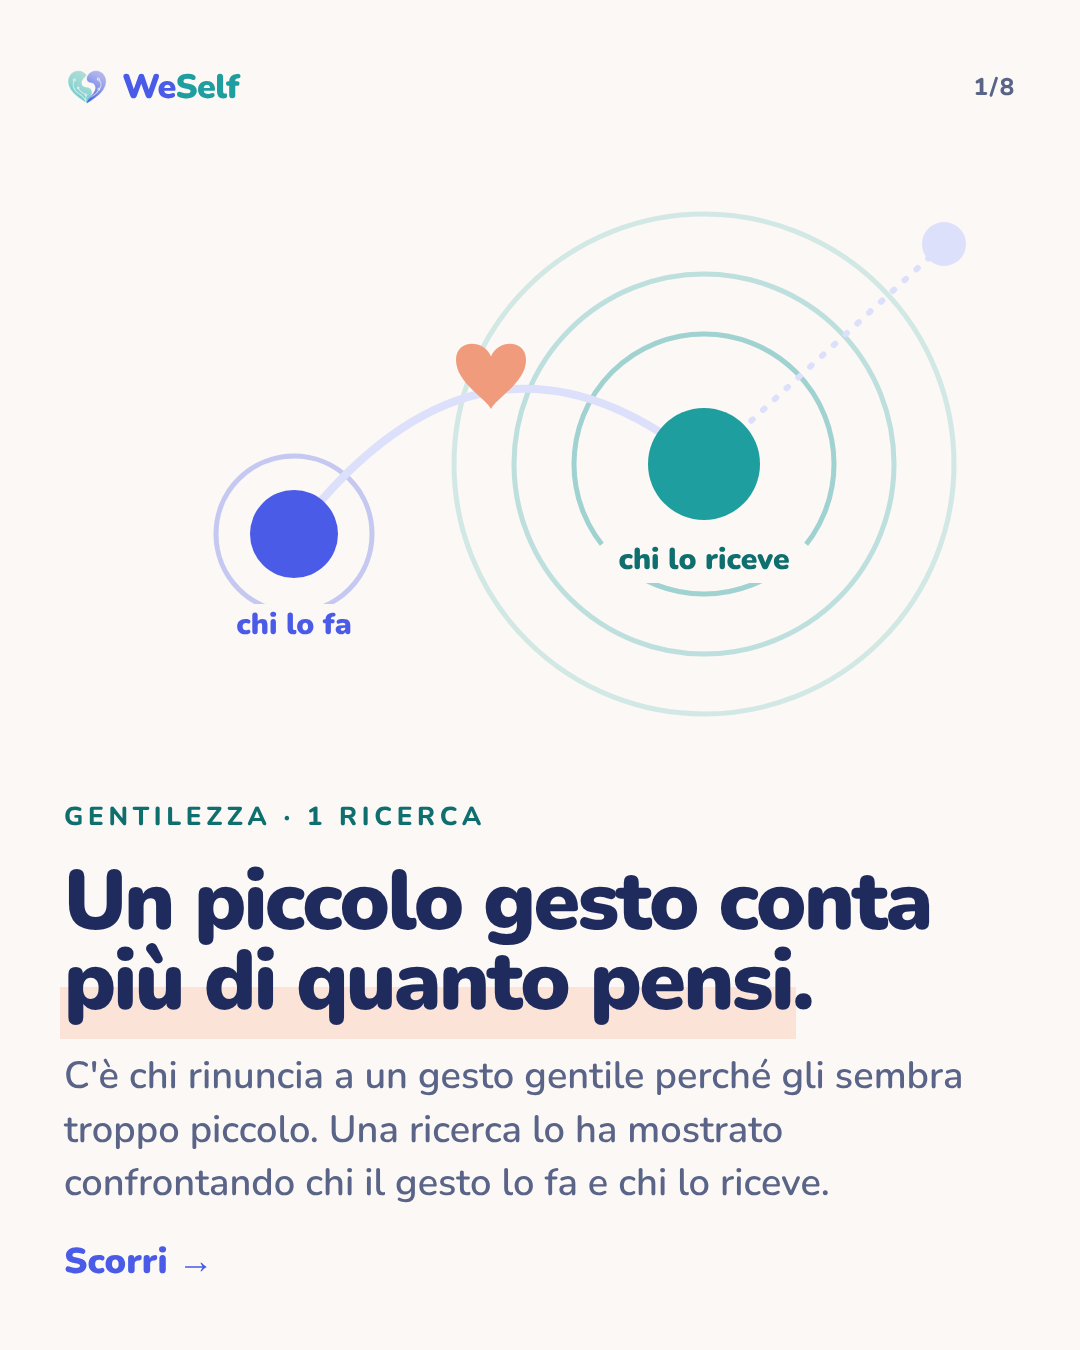
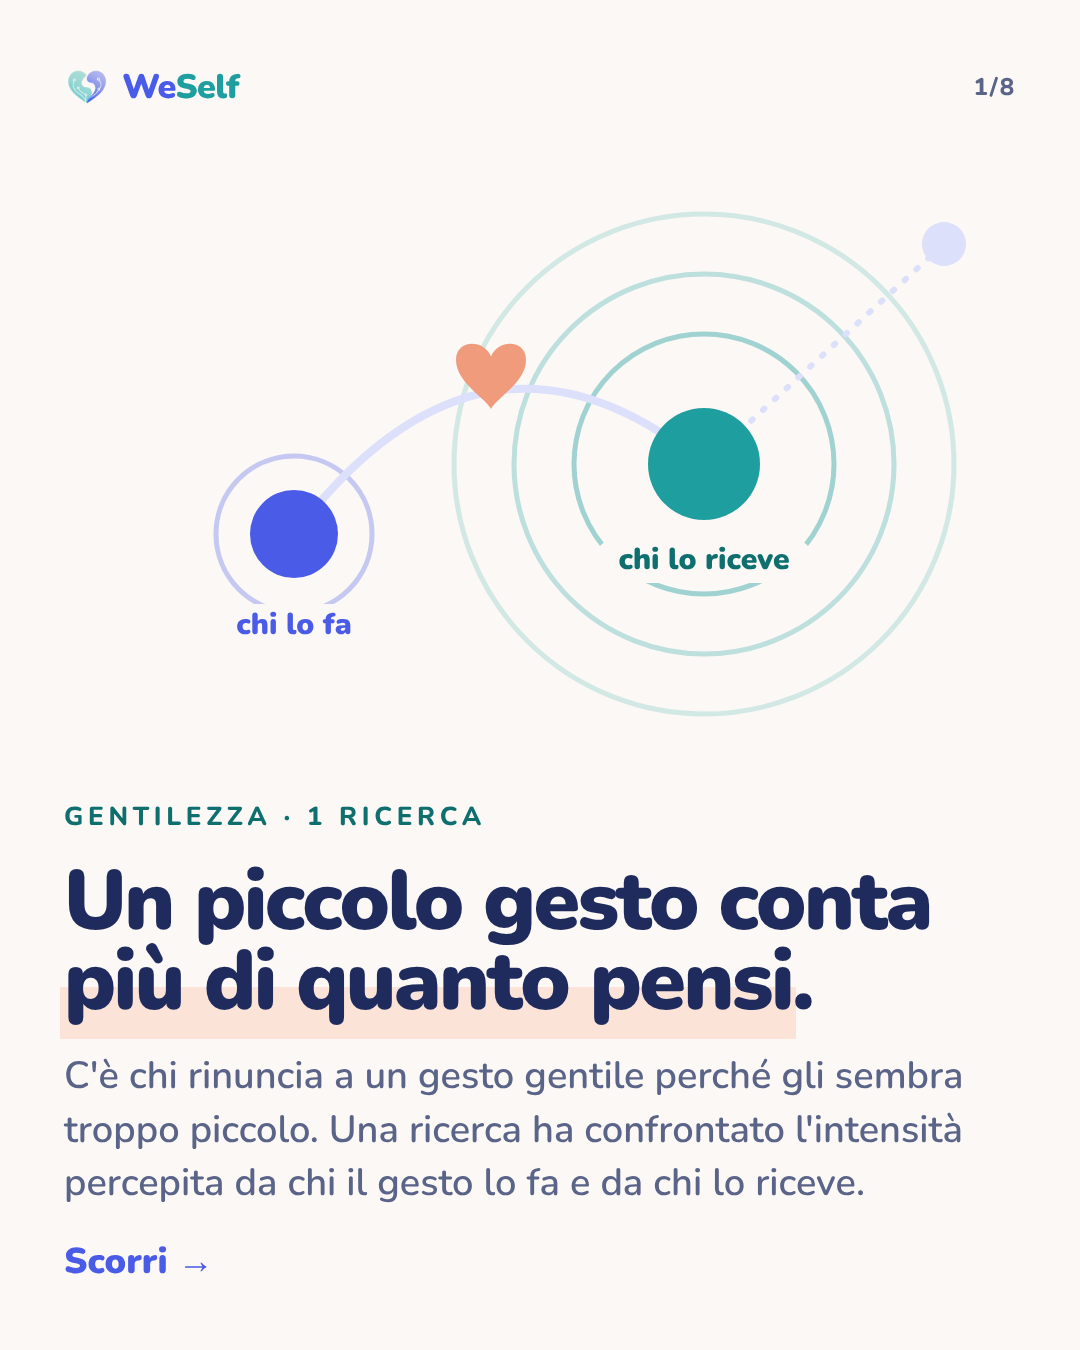
Carosello gentilezza: nuovo sottotitolo di copertina
Claude-Session: https://claude.ai/code/session_01KYQeP73Zvn8PeP6zhkL2Sc

Changed region(s): [[0.0611, 0.8089, 0.7944, 0.9022], [0.7333, 0.8089, 0.8861, 0.8711]]

diff --git a/carosselli/gentilezza/slides.html b/carosselli/gentilezza/slides.html
@@ -117,7 +117,7 @@ svg.shape{position:absolute;z-index:1}
   <div style="margin-top:auto;gap:28px" class="stack">
     <p class="kicker">Gentilezza · 1 ricerca</p>
     <h1 style="font-size:84px">Un piccolo gesto conta <span class="hl">più di quanto pensi</span>.</h1>
-    <p class="mid muted">C'è chi rinuncia a un gesto gentile perché gli sembra troppo piccolo. Una ricerca lo ha mostrato confrontando chi il gesto lo fa e chi lo riceve.</p>
+    <p class="mid muted">C'è chi rinuncia a un gesto gentile perché gli sembra troppo piccolo. Una ricerca ha confrontato l'intensità percepita da chi il gesto lo fa e da chi lo riceve.</p>
     <p style="font-weight:900;font-size:36px;color:var(--peri)">Scorri →</p>
   </div>
 </section>

diff --git a/carosselli/gentilezza/body.html b/carosselli/gentilezza/body.html
@@ -42,7 +42,7 @@
   <div style="margin-top:auto;gap:28px" class="stack">
     <p class="kicker">Gentilezza · 1 ricerca</p>
     <h1 style="font-size:84px">Un piccolo gesto conta <span class="hl">più di quanto pensi</span>.</h1>
-    <p class="mid muted">C'è chi rinuncia a un gesto gentile perché gli sembra troppo piccolo. Una ricerca lo ha mostrato confrontando chi il gesto lo fa e chi lo riceve.</p>
+    <p class="mid muted">C'è chi rinuncia a un gesto gentile perché gli sembra troppo piccolo. Una ricerca ha confrontato l'intensità percepita da chi il gesto lo fa e da chi lo riceve.</p>
     <p style="font-weight:900;font-size:36px;color:var(--peri)">Scorri →</p>
   </div>
 </section>

diff --git a/carosselli/gentilezza/kit-pubblicazione-gentilezza.md b/carosselli/gentilezza/kit-pubblicazione-gentilezza.md
@@ -40,7 +40,7 @@ Come abbiamo tradotto i numeri: nello studio della cioccolata calda (75 coppie),
 
 ## Testo alternativo (una riga per immagine)
 
-1. Copertina WeSelf: due cerchi, «chi lo fa» in blu e «chi lo riceve» in verde, uniti da un arco su cui viaggia un piccolo cuore arancione; intorno a chi riceve si allargano tre grandi cerchi concentrici, molto più ampi di quello intorno a chi fa il gesto, e arrivano fino a una terza persona. Testo: «Un piccolo gesto conta più di quanto pensi. C'è chi rinuncia a un gesto gentile perché gli sembra troppo piccolo. Una ricerca lo ha mostrato confrontando chi il gesto lo fa e chi lo riceve.»
+1. Copertina WeSelf: due cerchi, «chi lo fa» in blu e «chi lo riceve» in verde, uniti da un arco su cui viaggia un piccolo cuore arancione; intorno a chi riceve si allargano tre grandi cerchi concentrici, molto più ampi di quello intorno a chi fa il gesto, e arrivano fino a una terza persona. Testo: «Un piccolo gesto conta più di quanto pensi. C'è chi rinuncia a un gesto gentile perché gli sembra troppo piccolo. Una ricerca ha confrontato l'intensità percepita da chi il gesto lo fa e da chi lo riceve.»
 2. La ricerca: 8 studi negli Stati Uniti su piccoli gesti di gentilezza, come offrire un caffè, dare un passaggio, portare dei fiori, regalare dolci o una cioccolata calda. Dopo ogni gesto, chi lo aveva fatto ha detto quanto pensava che l'altra persona si sarebbe sentita bene; chi lo aveva ricevuto ha detto come si sentiva davvero.
 3. Alla pista di pattinaggio: in un parco, 75 persone hanno regalato una cioccolata calda a uno sconosciuto. Su una scala da 0 a 10, il gesto valeva 3,8 per chi lo ha fatto e 7 per chi lo ha ricevuto. Chi l'ha ricevuta si è sentito meglio di quanto aveva previsto chi l'aveva offerta.
 4. I numeri, tradotti: per chi ha ricevuto la cioccolata, il gesto valeva quasi il doppio. In un altro studio, chi aveva appena ricevuto un gesto gentile ha poi lasciato a uno sconosciuto in media il 48% di una somma da dividere, contro il 41% di chi aveva ricevuto lo stesso oggetto senza il gesto.
